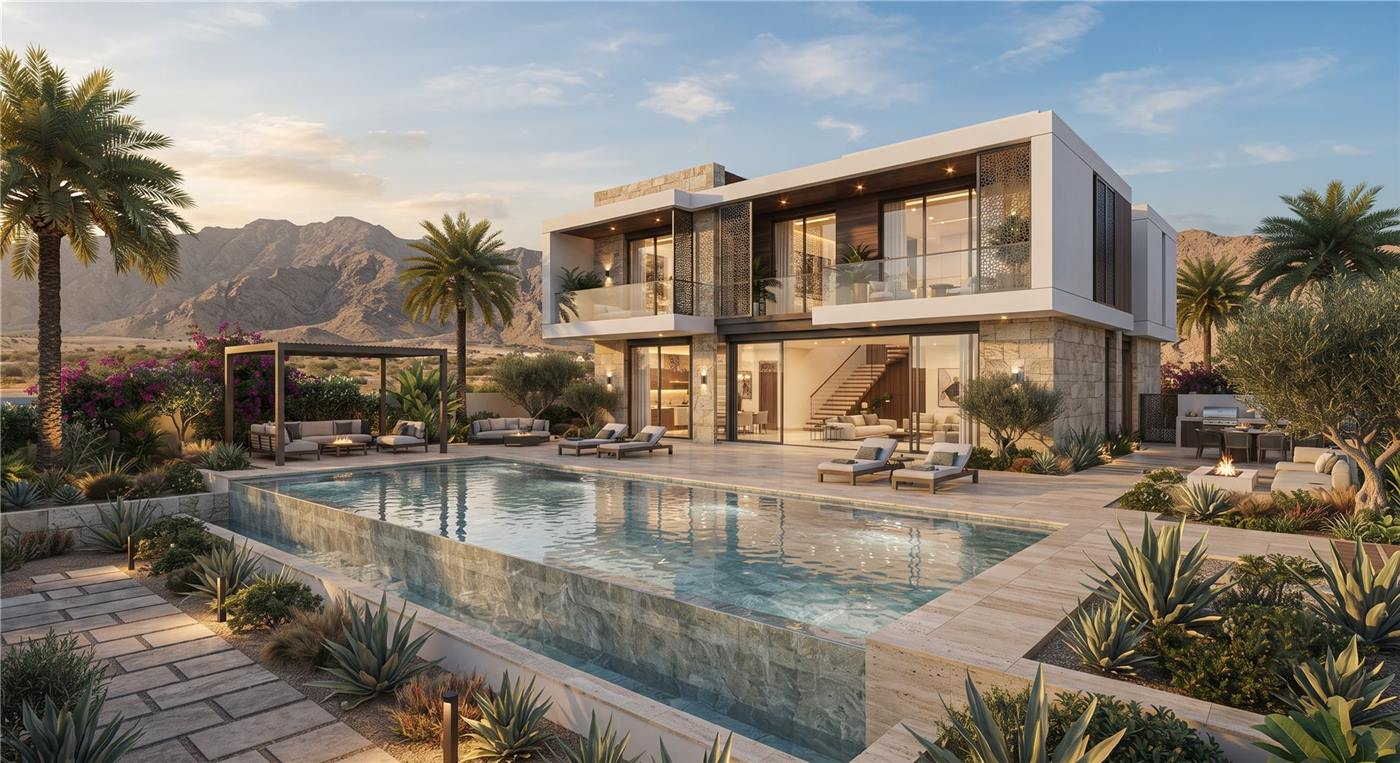
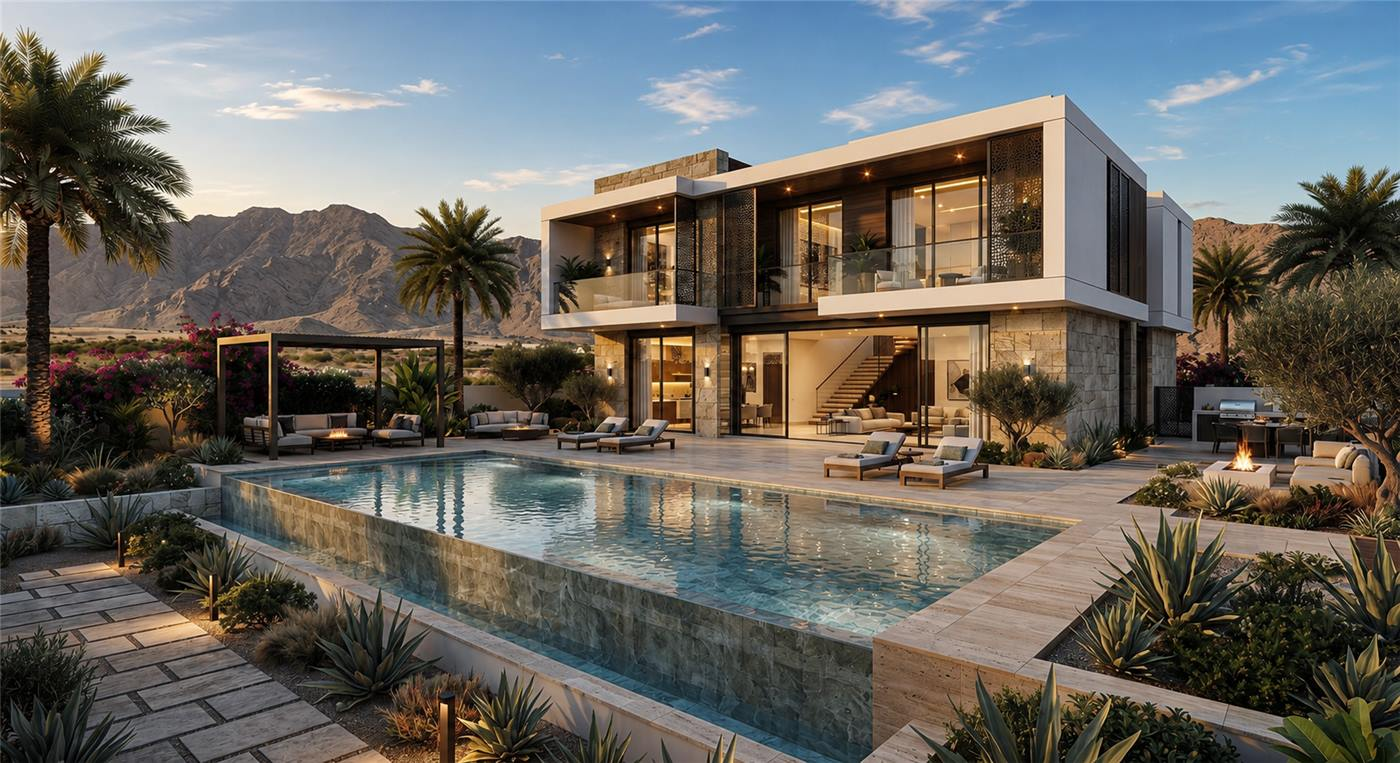
Portfolio: replace PDF with final version + new desert-villa cover

diff --git a/index.html b/index.html
@@ -82,7 +82,7 @@
   <section class="section portfolio-band" id="portfolio">
     <div class="container portfolio-band__inner">
       <div class="portfolio-band__cover fade-up">
-        <img src="assets/images/portfolio-cover.jpg" alt="NILZ portfolio cover — classical villa at dusk" loading="lazy">
+        <img src="assets/images/portfolio-cover.jpg" alt="NILZ portfolio cover — desert villa with pool" loading="lazy">
         <span class="portfolio-band__badge" data-i18n="pf.tag">Portfolio · 2026</span>
       </div>
       <div class="portfolio-band__body">